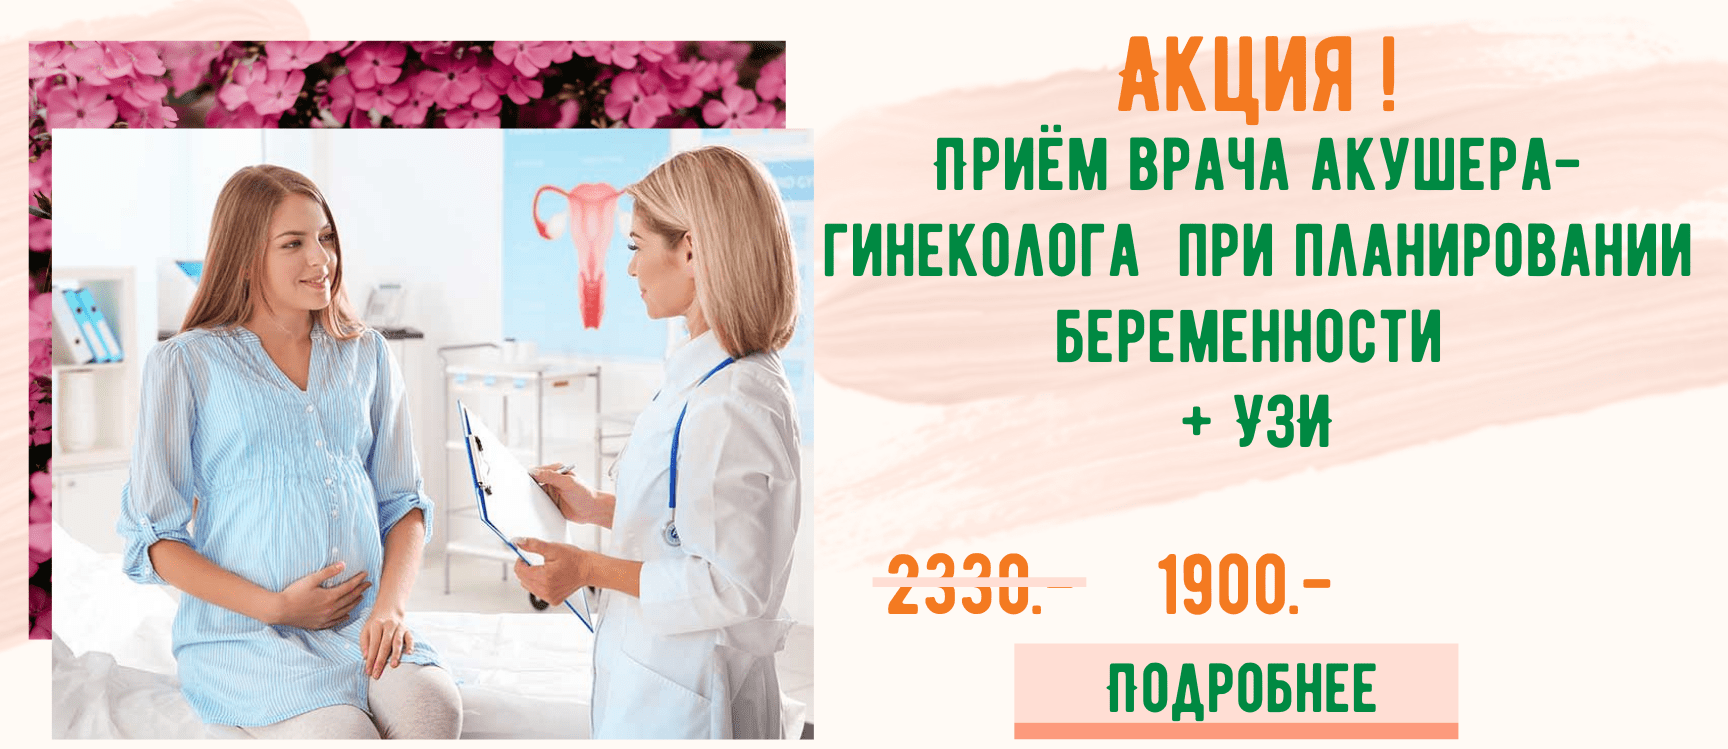
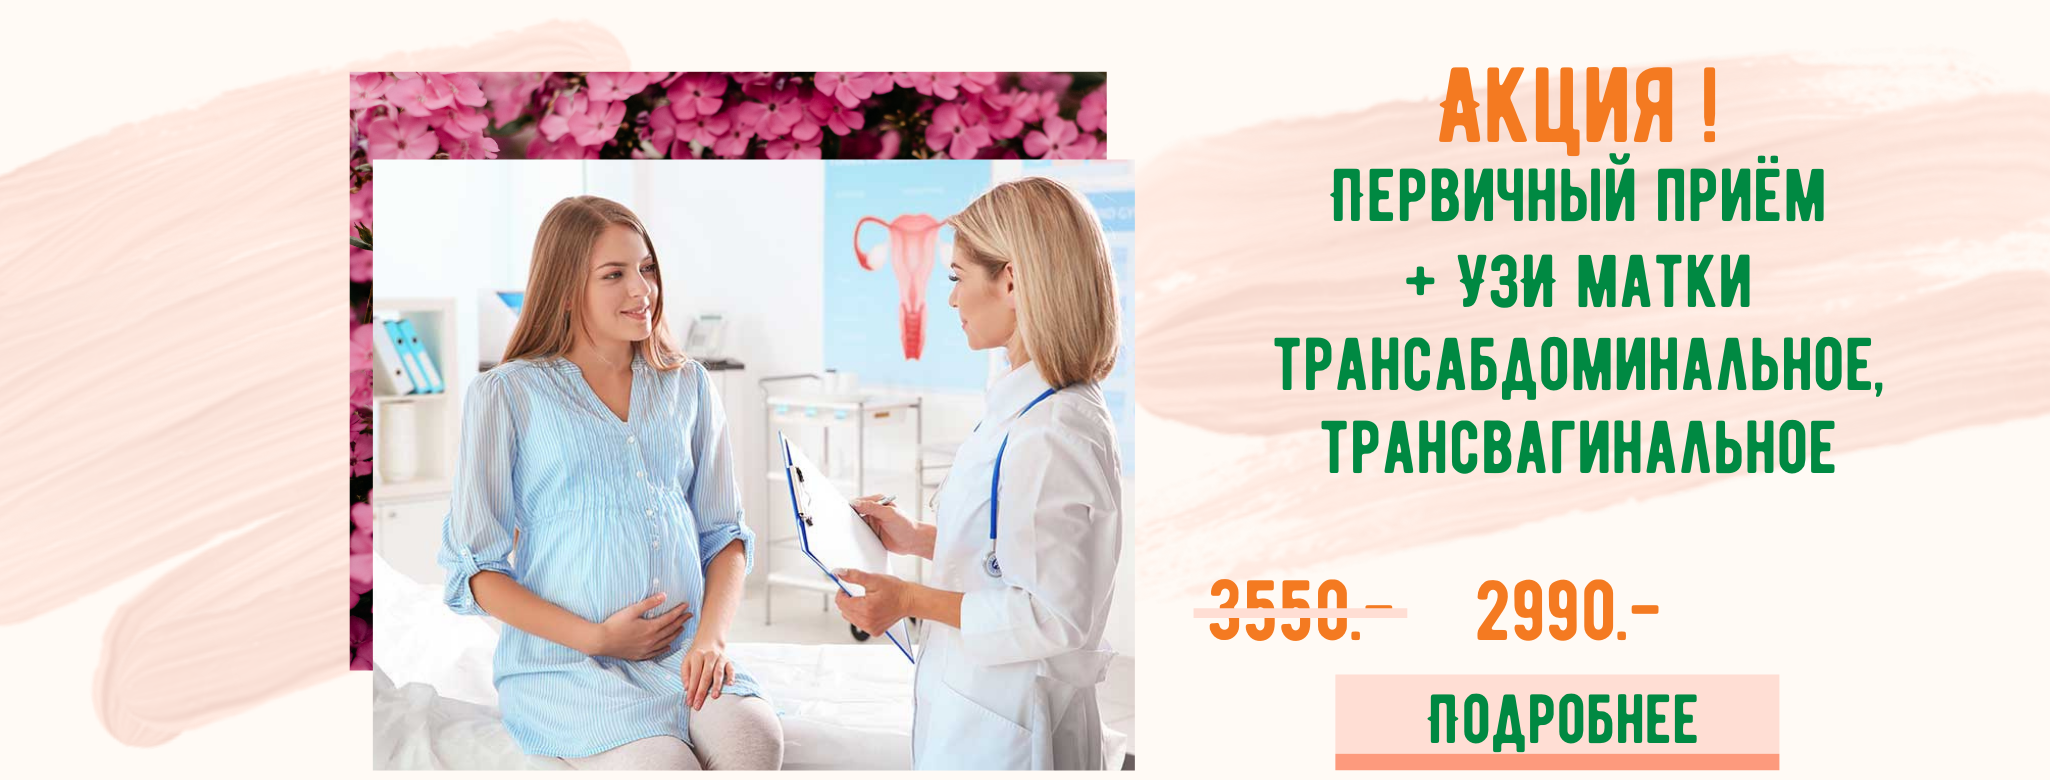
new offers updated

diff --git a/src/pages/beremennost.js b/src/pages/beremennost.js
@@ -7,8 +7,9 @@ import Nav from '../components/NavGeneric'
 import { Waypoint } from 'react-waypoint'
 
 
-import offer04 from '../assets/images/4.png';
-import offer03 from '../assets/images/3.png';
+import offer01 from '../assets/images/1.gif';
+import offer03 from '../assets/images/3.gif';
+
 
 
 class Generic extends React.Component {
@@ -53,11 +54,20 @@ class Generic extends React.Component {
             <p>Планирование ребёнка — это процесс, требующий особого внимания со стороны будущих родителей. Забота о здоровье ещё не появившегося на свет младенца — залог счастливой семейной жизни. Хотите узнать всё о состоянии Вашего здоровья и своевременно вылечить имеющиеся заболевания? Пройдите наиболее полное предварительное обследование «будущие родители» в центре Ваш + Доктор Чита!</p>
             <header class="major">
             <h2>АКЦИЯ!</h2>
-            <h3>Прием (осмотр и консультация) врача акушера-гинеколога при планировании беременности + УЗИ за 1900 рублей (вместо 2330 рублей)</h3>
-            </header>
+            <h3>Первичный приём + УЗИ матки трансабдоминальное, трансвагинальное за 2990 (вместо 3550).</h3>
+            
             <a href="https://www.doctor-chita.ru/contactform/" target="_blank">
-            <img src={offer04} alt="Ваш + Доктор | Гинеколог" width="100%"/>
+            <img src={offer01} alt="Ваш + Доктор | Гинеколог" width="70%"/>
             </a>
+            </header>
+            <header class="major">
+            <h2>АКЦИЯ "Комплексное УЗИ обследование для женщин"!</h2>
+            <h3>УЗИ малого таза трансабдоминально, трансвагинально + УЗИ молочных желез + УЗИ щитовидной железы за 3590 (вместо 4000).</h3>
+            
+            <a href="https://www.doctor-chita.ru/contactform/" target="_blank">
+            <img src={offer03} alt="Ваш + Доктор | Гинеколог" width="70%"/>
+            </a>
+            </header>
             
             <br/>
             <strong>Во-первых</strong>, важным шагом станет проведение анализов на <strong>половые гормоны и гормоны щитовидной железы</strong>, ведь именно они отвечают за возможность зачатия.
@@ -65,16 +75,6 @@ class Generic extends React.Component {
             <br></br><strong>Также</strong> следует учесть и анализы на <strong>TORCH-инфекции</strong>, которые приводят к ряду серьёзных заболеваний, вызывающих патологии у плода. В числе таких заболеваний - токсоплазмоз, краснуха, цитомегаловирусная инфекция, герпес. Данные инфекции относятся к внутриутробным и опасны именно для плода, хотя для мамы данные инфекции безвредны и никак клинически не проявляются. 
             <br></br>
             
-            <header class="major">
-            <h2>АКЦИЯ!</h2>
-            <h3>ЭхоКГ плода во время беременности — 1500 р (вместо 2000 р)</h3>
-            </header>
-            <a href="https://www.doctor-chita.ru/contactform/" target="_blank">
-            <img src={offer03} alt="Ваш + Доктор | Гинеколог" width="100%"/>
-            </a>
-            
-            
-            <br></br>
             <h3>Планирование беременности (Предгравидарная Подготовка):</h3>
             
             <div id="Layout" className="main" className="table-wrapper">

diff --git a/src/pages/uzi.js b/src/pages/uzi.js
@@ -7,11 +7,10 @@ import { Waypoint } from 'react-waypoint'
 import Header from '../components/HeaderGeneric'
 
 
-import offer01 from '../assets/images/1.png';
-import offer02 from '../assets/images/2.png';
-import offer03 from '../assets/images/3.png';
-import offer04 from '../assets/images/4.png';
-import offer05 from '../assets/images/5.png';
+import offer03 from '../assets/images/3.gif';
+import offer02 from '../assets/images/2.gif';
+
+
 
 
 class Generic extends React.Component {
@@ -61,42 +60,24 @@ class Generic extends React.Component {
             
             <header class="major">
             <h2>АКЦИЯ!</h2>
-            <h3>УЗИ молочных желез с цветным доплеровским картированием + УЗИ щитовидной железы 990 рублей (вместо 1510 рублей)</h3>
+            <h3>УЗИ молочных желез с цветным доплеровским картированием + УЗИ щитовидной железы 999 рублей (вместо 1510 рублей)</h3>
             </header>
             <a href="https://www.doctor-chita.ru/contactform/" target="_blank">
-            <img src={offer02} alt="Ваш + Доктор | Гинеколог" width="100%"/>
+            <img src={offer02} alt="Ваш + Доктор | Гинеколог" width="70%"/>
             </a>
             
             
             
             
             <header class="major">
-            <h2>АКЦИЯ!</h2>
-            <h3>Прием (осмотр и консультация) врача акушера-гинеколога первичный + проведение УЗИ определения беременности 1900 рублей (вместо 2330 рублей)</h3>
-            </header>
-            <a href="https://www.doctor-chita.ru/contactform/" target="_blank">
-            <img src={offer01} alt="Ваш + Доктор | Гинеколог" width="100%"/>
-            </a>
+            <h2>АКЦИЯ "Комплексное УЗИ обследование для женщин"!</h2>
+            <h3>УЗИ малого таза трансабдоминально, трансвагинально + УЗИ молочных желез + УЗИ щитовидной железы за 3590 (вместо 4000).</h3>
             
-
-
-            <header class="major">
-            <h2>АКЦИЯ!</h2>
-            <h3>Прием (осмотр и консультация) врача акушера-гинеколога первичный + проведение УЗИ матки и придатков трансвагинального за 1175 рублей (вместо 1500 рублей)</h3>
-            </header>
             <a href="https://www.doctor-chita.ru/contactform/" target="_blank">
-            <img src={offer05} alt="Ваш + Доктор | Гинеколог" width="100%"/>
+            <img src={offer03} alt="Ваш + Доктор | Гинеколог" width="70%"/>
             </a>
-            
-
-
-            <header class="major">
-            <h2>АКЦИЯ!</h2>
-            <h3>Прием (осмотр и консультация) врача акушера-гинеколога при планировании беременности + УЗИ за 1900 рублей (вместо 2330 рублей)</h3>
             </header>
-            <a href="https://www.doctor-chita.ru/contactform/" target="_blank">
-            <img src={offer04} alt="Ваш + Доктор | Гинеколог" width="100%"/>
-            </a>
+        
             
             
       

diff --git a/src/pages/ginekologia.js b/src/pages/ginekologia.js
@@ -7,9 +7,8 @@ import Nav from '../components/NavGeneric'
 import { Waypoint } from 'react-waypoint'
 import administrator from '../assets/images/administrator.jpg';
 
-import offer04 from '../assets/images/4.png';
-import offer01 from '../assets/images/1.png';
-import offer03 from '../assets/images/3.png';
+import offer01 from '../assets/images/1.gif';
+import offer02 from '../assets/images/2.gif';
 
 
 
@@ -59,29 +58,20 @@ class Generic extends React.Component {
             </p>
             <header class="major">
             <h2>АКЦИЯ!</h2>
-            <h3>Прием (осмотр и консультация) врача акушера-гинеколога первичный + проведение УЗИ определения беременности 1900 рублей (вместо 2330 рублей)</h3>
+            <h3>УЗИ молочных желез с цветным доплеровским картированием + УЗИ щитовидной железы 999 рублей (вместо 1510 рублей)</h3>
             </header>
             <a href="https://www.doctor-chita.ru/contactform/" target="_blank">
-            <img src={offer01} alt="Ваш + Доктор | Гинеколог" width="100%"/>
+            <img src={offer02} alt="Ваш + Доктор | Гинеколог" width="70%"/>
             </a>
-            
-            
-            <header class="major">
-            <h2>АКЦИЯ!</h2>
-            <h3>Прием (осмотр и консультация) врача акушера-гинеколога при планировании беременности + УЗИ за 1900 рублей (вместо 2330 рублей)</h3>
-            </header>
-            <a href="https://www.doctor-chita.ru/contactform/" target="_blank">
-            <img src={offer04} alt="Ваш + Доктор | Гинеколог" width="100%"/>
-            </a>
-            
 
             <header class="major">
             <h2>АКЦИЯ!</h2>
-            <h3>ЭхоКГ плода во время беременности — 1500 р (вместо 2000 р)</h3>
-            </header>
+            <h3>Первичный приём + УЗИ матки трансабдоминальное, трансвагинальное за 2990 (вместо 3550).</h3>
+            
             <a href="https://www.doctor-chita.ru/contactform/" target="_blank">
-            <img src={offer03} alt="Ваш + Доктор | Гинеколог" width="100%"/>
+            <img src={offer01} alt="Ваш + Доктор | Гинеколог" width="70%"/>
             </a>
+            </header>
             
             <p>
            Наиболее частой причиной обращения к гинекологу являются боли внизу живота. Существует масса причин их возникновения, которые могут условно разделяться на 2 группы: органические и функциональные. К первому типу относятся:

diff --git a/src/components/HeaderGeneric.js b/src/components/HeaderGeneric.js
@@ -7,9 +7,8 @@ import { Slider } from 'infinite-react-carousel'
 import logo from '../assets/images/logo-full.png';
 import offer01 from '../assets/images/offer_01.png';
 import offer02 from '../assets/images/offer_02.png';
-import offer03 from '../assets/images/offer_03.png';
 import offer04 from '../assets/images/offer_04.png';
-import offer05 from '../assets/images/offer_05.png';
+
 
 const HeaderGeneric = (props) => (
     <header id="header" className="alt">        
@@ -36,21 +35,12 @@ const HeaderGeneric = (props) => (
                 <img src={offer02} alt="Ваш + Доктор | Скидки" width="80%"/>
                 </div>
                 </Link>
-                <Link to="/beremennost">
-                <div>
-                <img src={offer03} alt="Ваш + Доктор | Скидки" width="80%"/>
-                </div>
-                </Link>
                 <Link to="/uzi">
                 <div>
                 <img src={offer04} alt="Ваш + Доктор | Скидки" width="80%"/>
                 </div>
                 </Link>
-                <Link to="/uzi">
-                <div>
-                <img src={offer05} alt="Ваш + Доктор | Скидки" width="80%"/>
-                </div>
-                </Link>
+                
             </Slider>
         
 

diff --git a/src/components/Header.js b/src/components/Header.js
@@ -6,9 +6,8 @@ import { Slider } from 'infinite-react-carousel'
 
 import offer01 from '../assets/images/offer_01.png';
 import offer02 from '../assets/images/offer_02.png';
-import offer03 from '../assets/images/offer_03.png';
 import offer04 from '../assets/images/offer_04.png';
-import offer05 from '../assets/images/offer_05.png';
+
 
 
 const Header = (props) => (
@@ -46,21 +45,12 @@ const Header = (props) => (
                 <img src={offer02} alt="Ваш + Доктор | Скидки" width="80%"/>
                 </div>
                 </Link>
-                <Link to="/beremennost">
-                <div>
-                <img src={offer03} alt="Ваш + Доктор | Скидки" width="80%"/>
-                </div>
-                </Link>
                 <Link to="/uzi">
                 <div>
                 <img src={offer04} alt="Ваш + Доктор | Скидки" width="80%"/>
                 </div>
                 </Link>
-                <Link to="/uzi">
-                <div>
-                <img src={offer05} alt="Ваш + Доктор | Скидки" width="80%"/>
-                </div>
-                </Link>
+                
             </Slider>
             
     </header>
